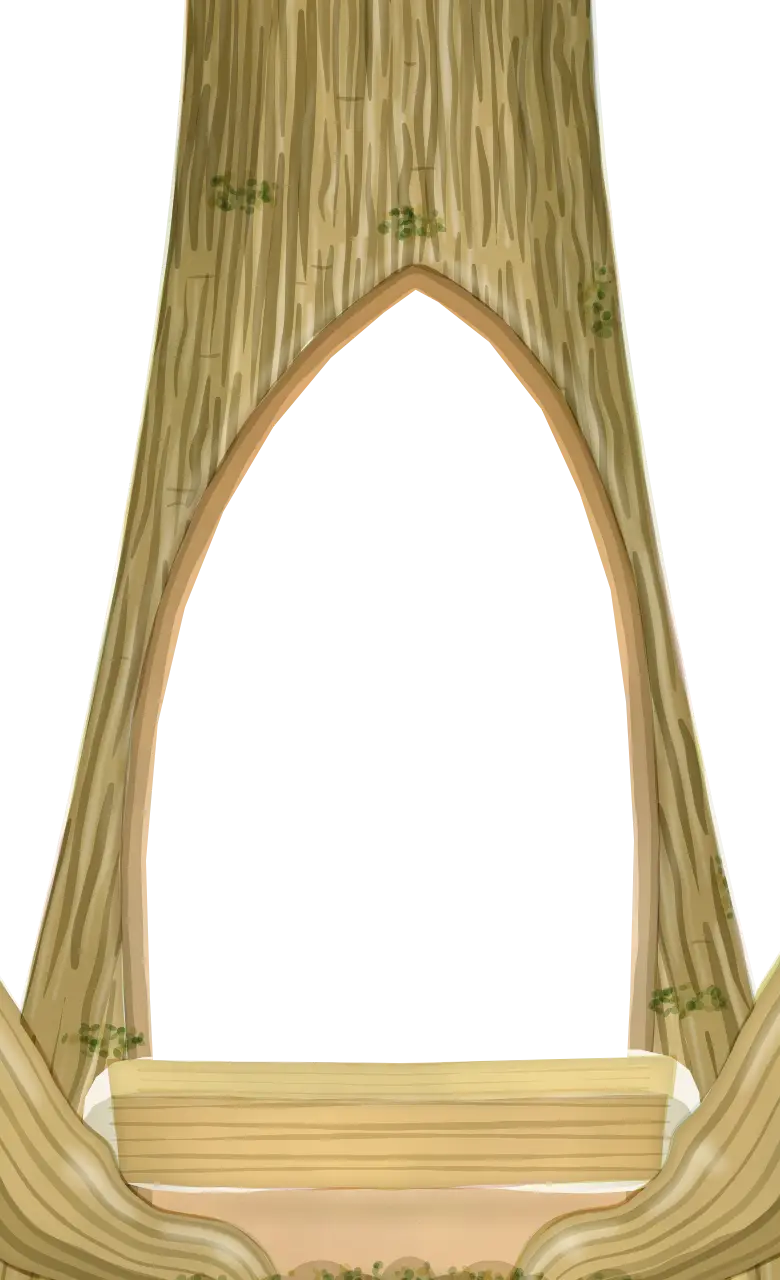
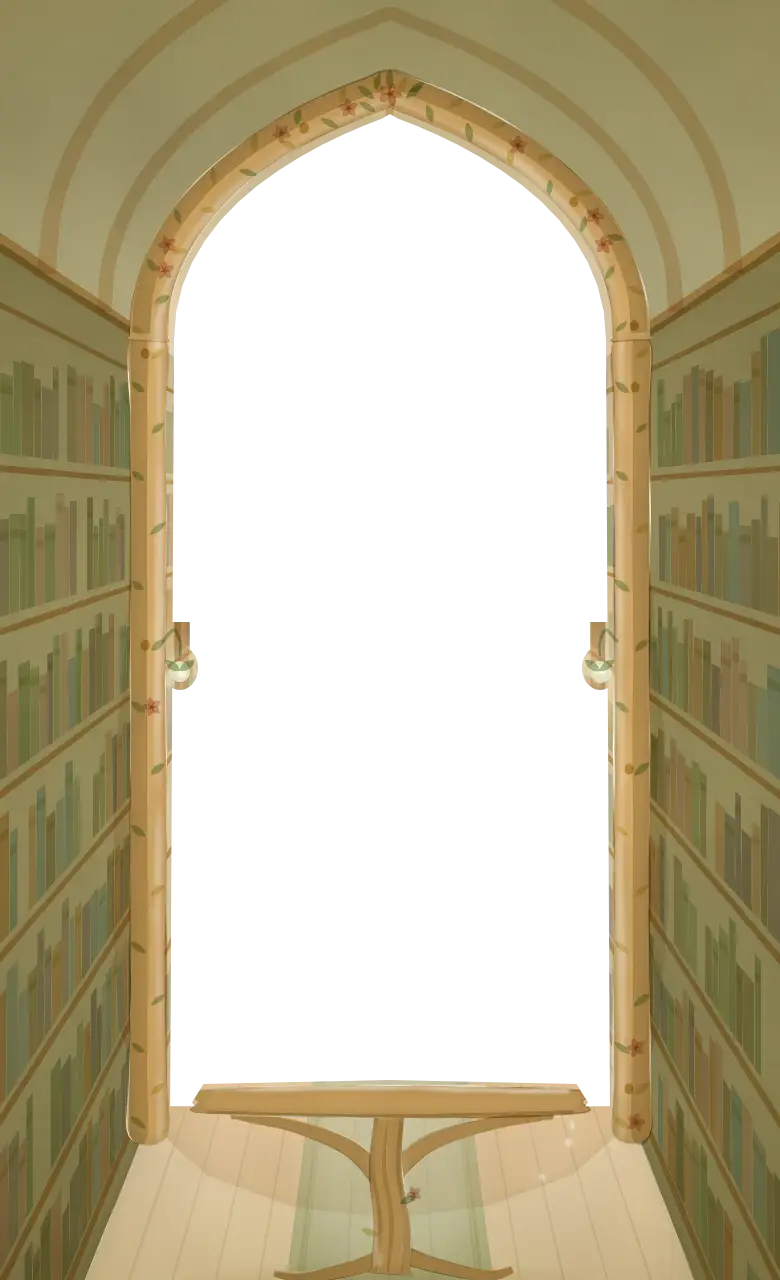
工房ホームページ：閉じた本の置き場を、うろからエルフの森の図書館へ
- 奥へ尖ったアーチがくり返す通路・両わきの高い書架（暗く淡く、押せる本は書見台の1冊だけに見せる）・奥の高窓（2つの尖った小窓と四つ葉の丸窓）から黄金の光
- 手前の枠は生きた木の柱とアーチ（若葉・花・金の実の蔓、葉に包まれた灯り）
- 書見台は世界樹の若木が枝で棚を支える形。左右対の波打つ脚は横顔に見えたのでやめた
- ひらくと、カメラが本へ寄って枠をくぐり、図書館が外へ抜けて森になる（壁と光の2枚の仕組みはそのまま）
- 妖精の光は、窓の桟に重ならないよう左の書架の前へ
- 合計 348.7KB（予算 350KB）・遅い4Gの最初の絵 1.43 秒（前と同じ）

diff --git a/style.css b/style.css
@@ -23,13 +23,13 @@ a{color:inherit}
 .stage{z-index:1}
 .stage-ui{z-index:3;pointer-events:none}
 .stage-ui>button{pointer-events:auto}
-/* 閉じた本：森の上に「光」（幹の外の空・うろの奥の灯り）、その上に「壁」（幹・口のふち・机・根）。
-   ひらくと、壁は不透明のまま大きくなって画面の外へ抜け（カメラがうろから出ていく）、光は森へとける。
+/* 閉じた本：森の上に「光」（図書館の奥の広間と高窓）、その上に「壁」（手前の枠・両わきの書架・天井・書見台・足もとの床）。
+   ひらくと、壁は不透明のまま大きくなって画面の外へ抜け（カメラが本へ寄って枠をくぐる）、光は森へとける。
    壁を薄くして森に重ねない：壁の不透明さはいつも 1。画面の外へ出きった後に隠す（--wall-end は JS が画面の幅から決める） */
 .forest-c{position:absolute;left:0;top:0;width:390px;height:640px;display:block;pointer-events:none}
 .arch-light,.arch-wall{position:absolute;left:0;top:0;width:390px;height:640px;display:block;pointer-events:none}
 .arch-light,.arch-wall{transform-origin:50% 52%}
-.arch-light{transition:transform 1.1s cubic-bezier(.5,0,.8,.45) .08s,opacity .55s ease .1s}   /* 光も壁と同じに大きくなる（うろの口の形の影を、壁のふちの外に残さない） */
+.arch-light{transition:transform 1.1s cubic-bezier(.5,0,.8,.45) .08s,opacity .55s ease .1s}   /* 光も壁と同じに大きくなる（枠の形の影を、壁のふちの外に残さない） */
 .open .arch-light{transform:scale(var(--wall-end,6));opacity:0}
 .arch-wall{transition:transform 1.1s cubic-bezier(.5,0,.8,.45) .08s,visibility 0s linear 1.18s}
 .open .arch-wall{transform:scale(var(--wall-end,6));visibility:hidden}
@@ -251,7 +251,7 @@ a{color:inherit}
 @keyframes hover{0%,100%{transform:translateY(0)}50%{transform:translateY(-1.5px)}}
 
 /* 妖精の光 */
-.fairy{position:absolute;left:189px;top:292px;width:12px;height:12px;border-radius:50%;pointer-events:none;
+.fairy{position:absolute;left:128px;top:300px;width:12px;height:12px;border-radius:50%;pointer-events:none;
   background:radial-gradient(circle,#fffbe8 0 28%,rgba(255,224,150,.9) 46%,rgba(255,214,150,0) 72%);box-shadow:0 0 16px 7px rgba(255,212,140,.42);
   animation:bob 3.4s ease-in-out infinite;transition:left 1.1s ease-in-out 2.5s,top 1.1s ease-in-out 2.5s}
 .open .fairy{left:var(--fx,150px);top:var(--fy,150px)}
